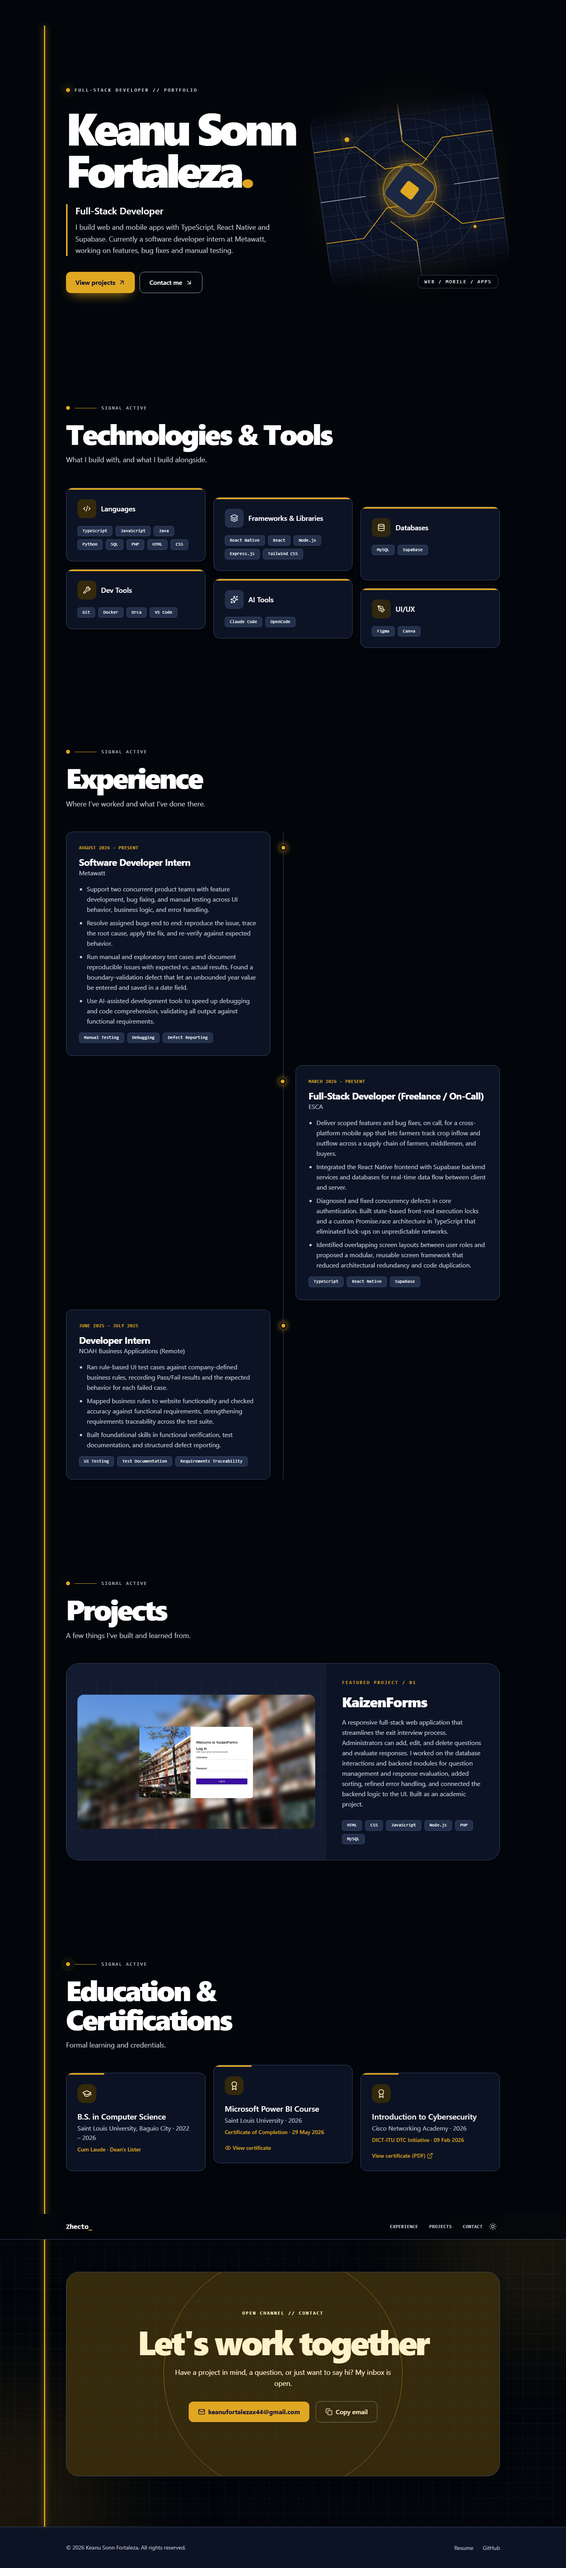
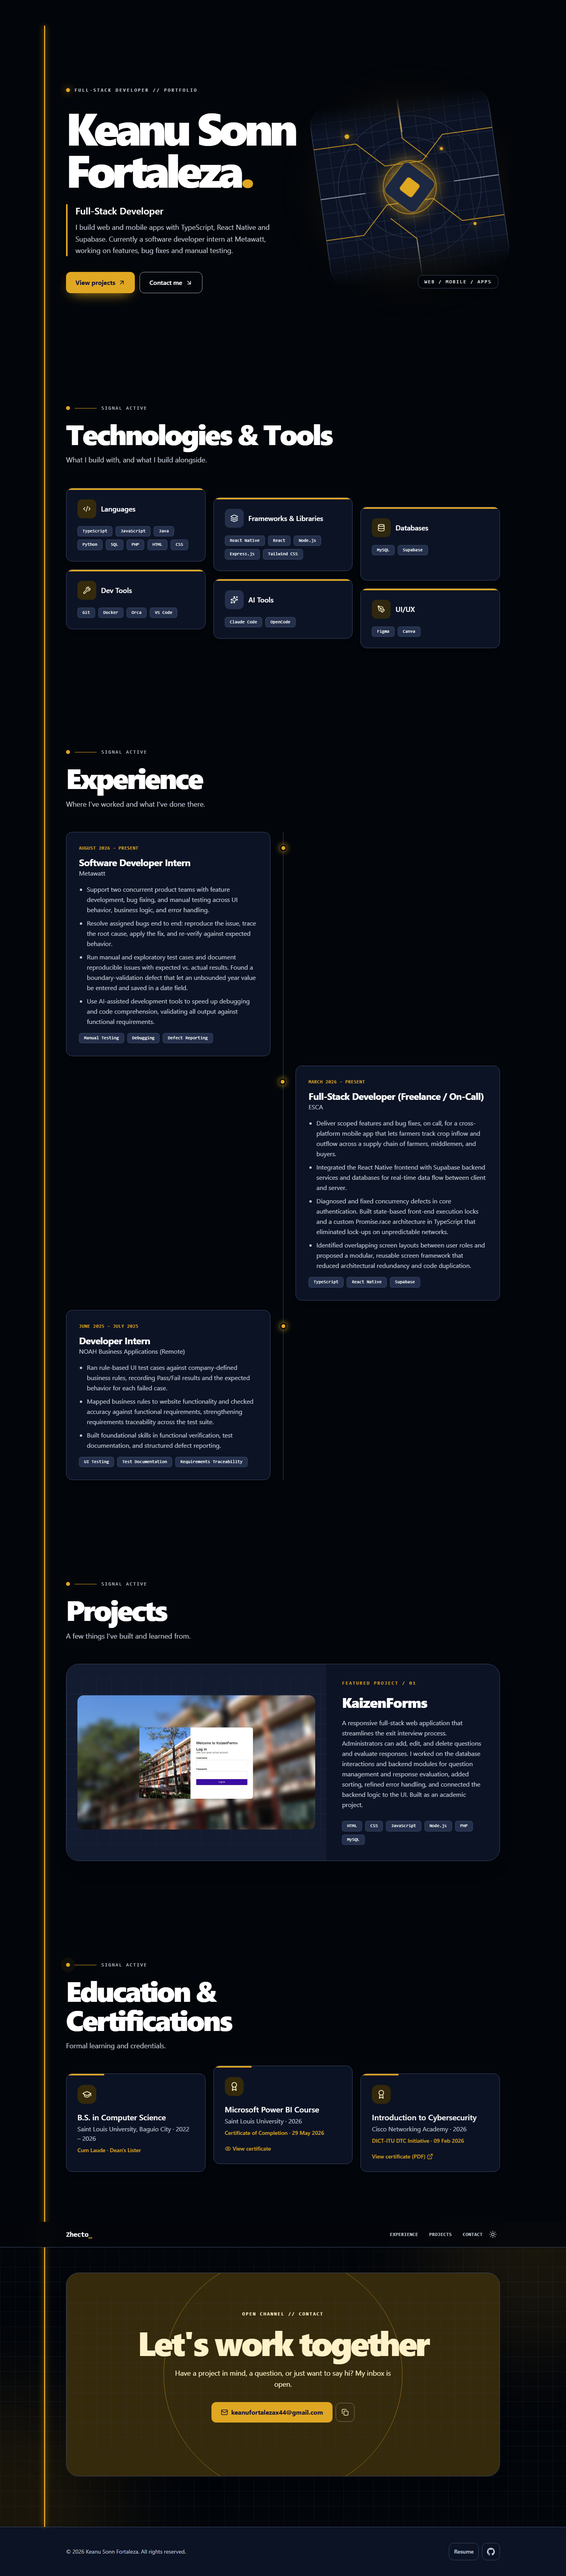
Add expressive motion and compact contact actions

diff --git a/src/components/Hero.tsx b/src/components/Hero.tsx
@@ -19,7 +19,7 @@ export const Hero = () => {
           <p className='text-on-surface-variant mt-3 text-base leading-relaxed sm:text-lg'>{PROFILE.intro}</p>
         </div>
         <div className='rise-in mt-10 flex flex-wrap gap-3' style={{ animationDelay: '260ms' }}>
-          <a href='#projects' className='bg-tertiary text-on-tertiary inline-flex items-center gap-2 rounded-xl px-6 py-3.5 font-bold shadow-[0_12px_32px_-14px_var(--tertiary)] transition-transform hover:-translate-y-1'>
+          <a href='#projects' className='bg-tertiary text-on-tertiary inline-flex items-center gap-2 rounded-xl px-6 py-3.5 font-bold shadow-[0_12px_32px_-14px_var(--tertiary)] motion-safe:transition-transform motion-safe:hover:-translate-y-1'>
             View projects <ArrowUpRightIcon size={18} />
           </a>
           <a href='#contact' className='border-outline text-on-surface hover:bg-surface-container inline-flex items-center gap-2 rounded-xl border px-6 py-3.5 font-semibold transition-colors'>
@@ -30,9 +30,9 @@ export const Hero = () => {
 
       <div aria-hidden='true' className='relative mx-auto aspect-square w-full max-w-[31rem]'>
         <div className='bg-tertiary/10 absolute inset-[5%] rounded-full blur-3xl' />
-        <div className='signal-grid border-outline-variant bg-surface-container-low absolute inset-0 rotate-[-8deg] overflow-hidden rounded-[3rem] border shadow-2xl'>
+        <div className='signal-grid signal-float border-outline-variant bg-surface-container-low absolute inset-0 rotate-[-8deg] overflow-hidden rounded-[3rem] border shadow-2xl'>
           <div className='border-outline-variant absolute inset-[10%] rounded-full border' />
-          <div className='border-outline-variant absolute inset-[22%] rounded-full border' />
+          <div className='signal-orbit border-outline-variant absolute inset-[22%] rounded-full border' />
           <div className='border-tertiary/70 absolute inset-[35%] rounded-full border-2' />
           <div className='bg-tertiary absolute top-[16%] left-[18%] size-3 rounded-full shadow-[0_0_22px_var(--tertiary)]' />
           <div className='bg-tertiary absolute right-[16%] bottom-[24%] size-2 rounded-full shadow-[0_0_22px_var(--tertiary)]' />
@@ -41,7 +41,7 @@ export const Hero = () => {
             <path d='M0 250 H125 M375 250 H500 M250 0 V95 M250 405 V500' stroke='var(--outline)' />
           </svg>
           <div className='bg-surface-container-high border-tertiary/60 absolute inset-[39%] rotate-45 rounded-2xl border-2 shadow-[0_0_45px_var(--tertiary)]' />
-          <div className='bg-tertiary absolute inset-[46%] rotate-45 rounded-md' />
+          <div className='signal-breathe bg-tertiary absolute inset-[46%] rotate-45 rounded-md' />
         </div>
         <div className='bg-surface text-on-surface border-outline-variant absolute -right-2 -bottom-5 rounded-xl border px-4 py-2 font-mono text-xs tracking-[0.2em] uppercase shadow-lg sm:right-1'>
           Web / Mobile / Apps

diff --git a/src/components/Contact.tsx b/src/components/Contact.tsx
@@ -51,11 +51,11 @@ export const Contact = () => {
             inbox is open.
           </p>
 
-          <div className='mt-8 flex flex-wrap items-center justify-center gap-4'>
+          <div className='mt-8 flex flex-wrap items-center justify-center gap-2'>
             <a
               href={`mailto:${PROFILE.email}`}
               aria-label={PROFILE.email}
-              className='bg-tertiary text-on-tertiary inline-flex max-w-full items-center gap-2 rounded-xl px-4 py-3.5 text-sm font-bold transition-transform hover:-translate-y-1 sm:px-6 sm:text-base'
+              className='bg-tertiary text-on-tertiary inline-flex max-w-full items-center gap-2 rounded-xl px-4 py-3.5 text-sm font-bold motion-safe:transition-transform motion-safe:hover:-translate-y-1 sm:px-6 sm:text-base'
             >
               <MailIcon size={18} />
               <span className='min-w-0'>
@@ -67,10 +67,11 @@ export const Contact = () => {
             <button
               type='button'
               onClick={copyEmail}
-              className='border-on-primary-container/40 hover:bg-on-primary-container/10 inline-flex items-center gap-2 rounded-xl border px-6 py-3.5 font-semibold transition-colors'
+              aria-label={copied ? 'Email copied' : 'Copy email address'}
+              title={copied ? 'Copied!' : 'Copy email address'}
+              className='border-on-primary-container/40 hover:bg-on-primary-container/10 inline-flex size-12 items-center justify-center rounded-xl border transition-colors motion-safe:transition-transform motion-safe:hover:-translate-y-1'
             >
               {copied ? <CheckIcon size={18} /> : <CopyIcon size={18} />}
-              {copied ? 'Copied!' : 'Copy email'}
             </button>
           </div>
 
@@ -78,8 +79,11 @@ export const Contact = () => {
             role='status'
             className='mt-4 min-h-6 text-sm'
           >
-            {copyFailed &&
-              "Couldn't copy automatically. Please copy it by hand."}
+            {copied
+              ? 'Email copied!'
+              : copyFailed
+                ? "Couldn't copy automatically. Please copy it by hand."
+                : ''}
           </p>
         </div>
       </div>

diff --git a/src/components/Footer.tsx b/src/components/Footer.tsx
@@ -8,7 +8,7 @@ export const Footer = () => {
           © {new Date().getFullYear()} {PROFILE.name}. All rights reserved.
         </p>
 
-        <ul className='flex gap-6'>
+        <ul className='flex items-center gap-2'>
           {FOOTER_LINKS.map(({ url, label }) => {
             const isExternal = url !== '#';
 
@@ -20,9 +20,15 @@ export const Footer = () => {
                     target: '_blank',
                     rel: 'noopener noreferrer',
                   })}
-                  className='text-on-surface-variant hover:text-primary text-sm transition-colors'
+                  aria-label={label}
+                  title={label}
+                  className='border-outline-variant text-on-surface-variant hover:border-tertiary hover:text-primary inline-flex min-h-11 min-w-11 items-center justify-center rounded-xl border px-3 text-sm font-semibold transition-colors motion-safe:transition-transform motion-safe:hover:-translate-y-1'
                 >
-                  {label}
+                  {label === 'GitHub' ? (
+                    <svg aria-hidden='true' viewBox='0 0 24 24' className='size-5 fill-current'>
+                      <path d='M12 .3a12 12 0 0 0-3.8 23.4c.6.1.8-.3.8-.6v-2.2c-3.3.7-4-1.4-4-1.4-.5-1.4-1.3-1.8-1.3-1.8-1.1-.7.1-.7.1-.7 1.2.1 1.8 1.2 1.8 1.2 1.1 1.8 2.8 1.3 3.5 1 .1-.8.4-1.3.8-1.6-2.7-.3-5.5-1.3-5.5-5.9 0-1.3.5-2.4 1.2-3.2-.1-.3-.5-1.5.1-3.2 0 0 1-.3 3.3 1.2a11.5 11.5 0 0 1 6 0c2.3-1.5 3.3-1.2 3.3-1.2.7 1.7.3 2.9.1 3.2.8.8 1.2 1.9 1.2 3.2 0 4.6-2.8 5.6-5.5 5.9.4.4.8 1.1.8 2.2v3.3c0 .3.2.7.8.6A12 12 0 0 0 12 .3Z' />
+                    </svg>
+                  ) : label}
                 </a>
               </li>
             );

diff --git a/src/index.css b/src/index.css
@@ -100,13 +100,39 @@ body { font-family: ui-sans-serif, system-ui, sans-serif; }
   100% { box-shadow: 0 0 0 0 transparent; }
 }
 
+@keyframes signal-float {
+  50% { translate: 0 -10px; }
+}
+
+@keyframes signal-orbit {
+  to { rotate: 360deg; }
+}
+
+@keyframes signal-breathe {
+  50% { scale: 1.18; }
+}
+
 @layer utilities {
   .rise-in { animation: rise-in 600ms cubic-bezier(0.22, 0.61, 0.36, 1) both; }
   [data-shown='true'] .signal-node { animation: signal-pulse 900ms ease-out 1; }
+  .signal-float { animation: signal-float 7s ease-in-out infinite; }
+  .signal-orbit { animation: signal-orbit 18s linear infinite; }
+  .signal-orbit::after {
+    content: '';
+    position: absolute;
+    top: -4px;
+    left: calc(50% - 4px);
+    width: 8px;
+    height: 8px;
+    border-radius: 50%;
+    background: var(--tertiary);
+    box-shadow: 0 0 12px var(--tertiary);
+  }
+  .signal-breathe { animation: signal-breathe 3s ease-in-out infinite; }
 }
 
 @media (prefers-reduced-motion: reduce) {
   html { scroll-behavior: auto; }
-  .rise-in, [data-shown='true'] .signal-node { animation: none; }
+  .rise-in, [data-shown='true'] .signal-node, .signal-float, .signal-orbit, .signal-breathe { animation: none; }
   .signal-spine-fill { transform: none; opacity: 0.35; }
 }

diff --git a/src/components/Technologies.tsx b/src/components/Technologies.tsx
@@ -30,7 +30,7 @@ export const Technologies = () => {
             key={title}
             delay={index * 60}
           >
-            <article className={`bg-surface-container-low border-outline-variant relative h-full overflow-hidden rounded-2xl border p-7 shadow-lg shadow-black/5 transition-shadow duration-300 hover:shadow-xl ${index % 3 === 1 ? 'lg:translate-y-6' : index % 3 === 2 ? 'lg:translate-y-12' : ''}`}>
+            <article className={`bg-surface-container-low border-outline-variant hover:border-tertiary/60 relative h-full overflow-hidden rounded-2xl border p-7 shadow-lg shadow-black/5 duration-300 hover:shadow-xl motion-safe:transition-[scale,box-shadow,border-color] motion-safe:hover:scale-[1.02] ${index % 3 === 1 ? 'lg:translate-y-6' : index % 3 === 2 ? 'lg:translate-y-12' : ''}`}>
               <div aria-hidden='true' className='bg-tertiary absolute inset-x-0 top-0 h-1' />
               <div className='flex items-center gap-3'>
                 <div

diff --git a/src/components/Education.tsx b/src/components/Education.tsx
@@ -47,7 +47,7 @@ export const Education = () => {
               key={title}
               delay={index * 60}
             >
-              <article className={`bg-surface-container-low border-outline-variant relative flex h-full flex-col overflow-hidden rounded-2xl border p-7 shadow-lg shadow-black/5 ${index === 1 ? 'lg:-translate-y-5' : ''}`}>
+              <article className={`bg-surface-container-low border-outline-variant hover:border-tertiary/60 relative flex h-full flex-col overflow-hidden rounded-2xl border p-7 shadow-lg shadow-black/5 duration-300 motion-safe:transition-[scale,border-color] motion-safe:hover:scale-[1.02] ${index === 1 ? 'lg:-translate-y-5' : ''}`}>
                 <div aria-hidden='true' className='bg-tertiary absolute top-0 left-0 h-1 w-24' />
                 <div className='bg-primary-container text-on-primary-container flex size-12 items-center justify-center rounded-2xl'>
                   <Icon size={24} />

diff --git a/src/components/Experience.tsx b/src/components/Experience.tsx
@@ -24,7 +24,7 @@ export const Experience = () => {
           {EXPERIENCES.map((job, index) => (
             <li
               key={`${job.company}-${job.joinDate}`}
-              className={`bg-surface-container-low border-outline-variant relative rounded-2xl border p-6 shadow-lg shadow-black/5 sm:p-8 lg:w-[calc(50%-2rem)] ${index % 2 ? 'lg:ml-auto' : ''}`}
+              className={`bg-surface-container-low border-outline-variant hover:border-tertiary/60 relative rounded-2xl border p-6 shadow-lg shadow-black/5 duration-300 motion-safe:transition-[scale,border-color] motion-safe:hover:scale-[1.015] sm:p-8 lg:w-[calc(50%-2rem)] ${index % 2 ? 'lg:ml-auto' : ''}`}
             >
               <span
                 aria-hidden='true'

diff --git a/src/components/MediaGallery.tsx b/src/components/MediaGallery.tsx
@@ -18,7 +18,7 @@ export const MediaGallery = ({ items, aspect }: MediaGalleryProps) => {
     <div>
       <div
         className={cn(
-          'bg-surface-container overflow-hidden rounded-2xl',
+          'bg-surface-container group overflow-hidden rounded-2xl',
           aspect,
         )}
       >
@@ -26,7 +26,7 @@ export const MediaGallery = ({ items, aspect }: MediaGalleryProps) => {
           src={current.src}
           alt={current.alt}
           decoding='async'
-          className='size-full object-cover'
+          className='size-full object-cover motion-safe:transition-transform motion-safe:duration-500 motion-safe:group-hover:scale-105'
         />
       </div>
 
